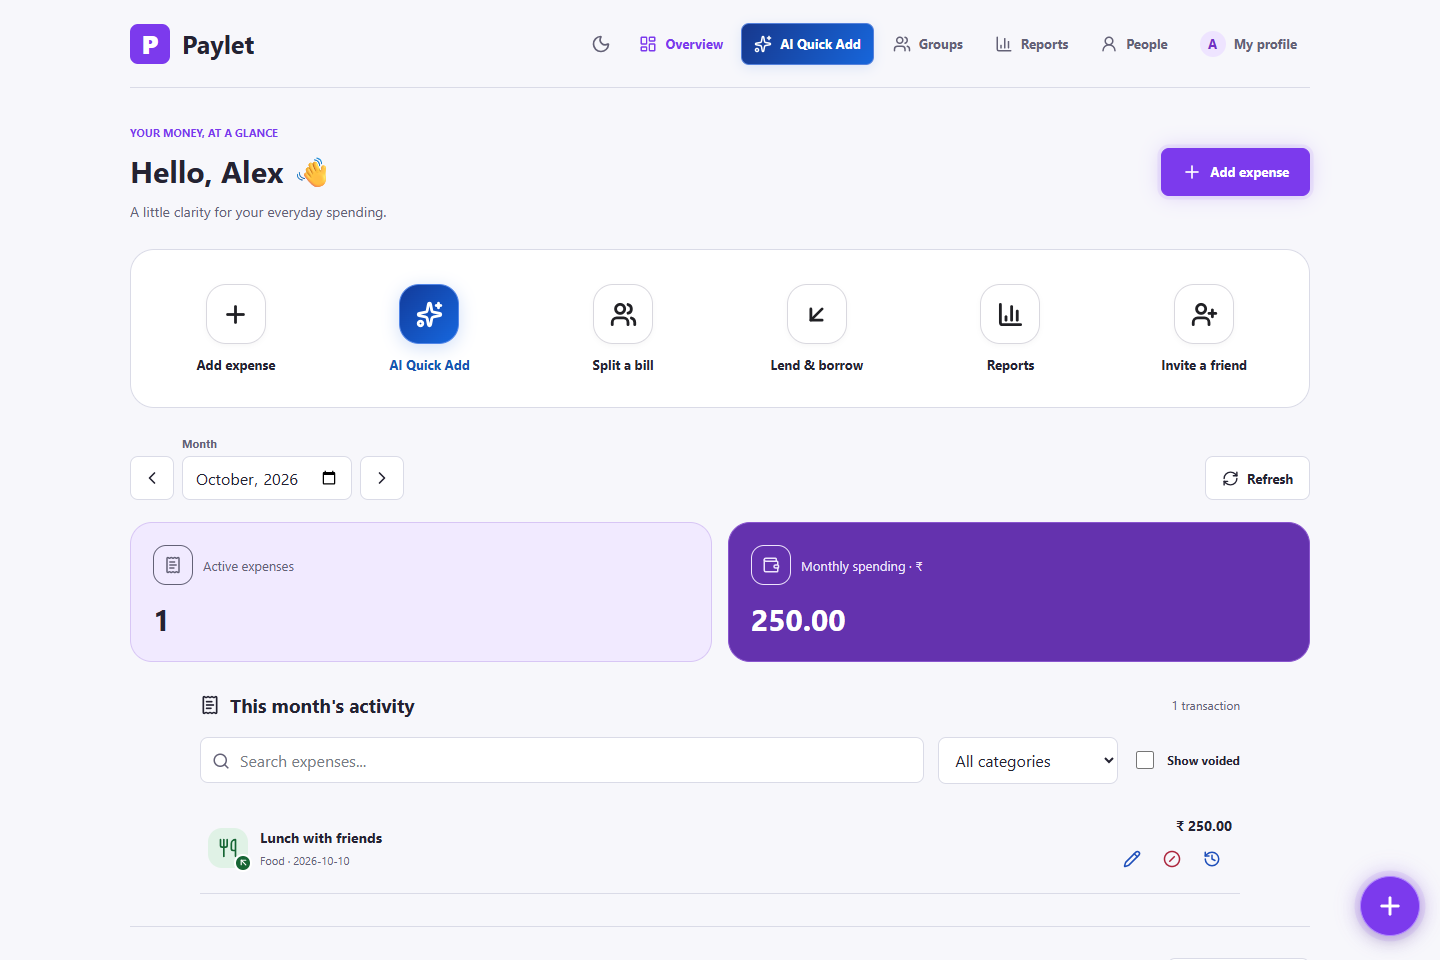
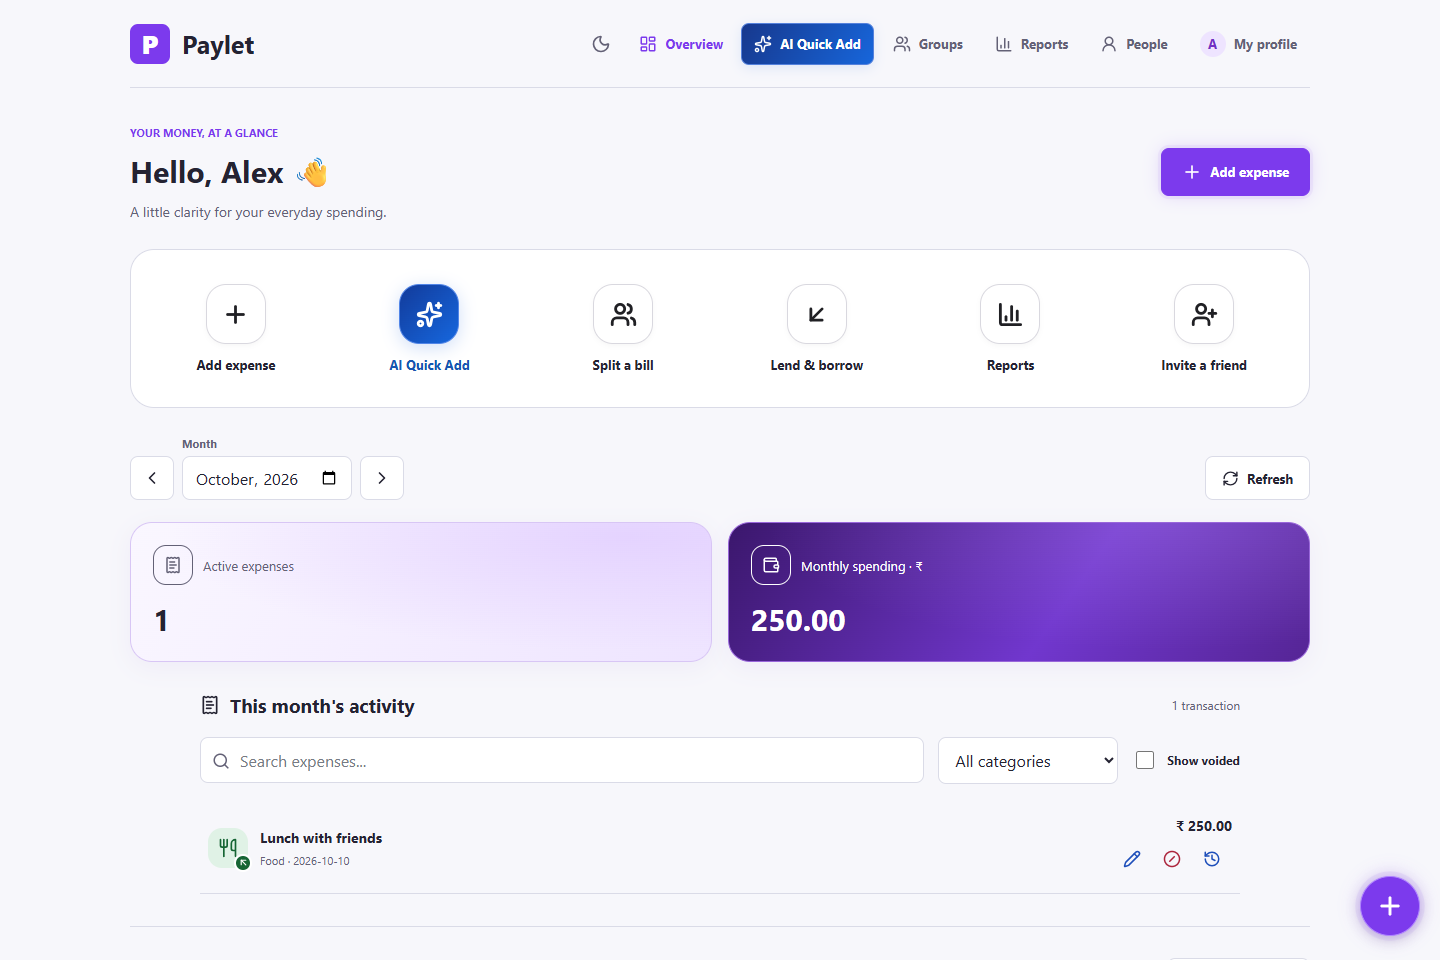
Add dashboard gradients and brighter lending cards

Changed region(s): [[0.6875, 0.5312, 0.8438, 0.6875], [0.5, 0.5312, 0.625, 0.6875]]

diff --git a/frontend/src/components/dashboard-refresh.css b/frontend/src/components/dashboard-refresh.css
@@ -27,11 +27,11 @@
 .home-page .expense-row-actions .button:hover:not(:disabled) { background: var(--surface); border-color: var(--border); }
 .home-page .expense-row.is-void { background: var(--surface-alt); }
 .home-page .expense-row.is-void .transaction-icon.expense-direction { color: var(--muted); background: var(--surface); }
-.home-page .loan-summary-card.lent-summary { background: #1955ac; border-color: #3773c8; }
-.home-page .loan-summary-card.borrowed-summary { background: #a52e68; border-color: #c54c85; }
+.home-page .loan-summary-card.lent-summary { background: #185de7; border-color: #4b83ff; }
+.home-page .loan-summary-card.borrowed-summary { background: #ce1767; border-color: #f05296; }
 .home-page .loan-summary-card:is(.lent-summary, .borrowed-summary) :is(.loan-summary-label, .loan-summary-value, dt, dd, .profile-member), .home-page .loan-summary-card .outstanding-line :is(dt, dd) { color: #fff; }
-[data-theme="dark"] .home-page .loan-summary-card.lent-summary { background: #124486; border-color: #3773c8; }
-[data-theme="dark"] .home-page .loan-summary-card.borrowed-summary { background: #862452; border-color: #b2487b; }
+[data-theme="dark"] .home-page .loan-summary-card.lent-summary { background: #185de7; border-color: #4b83ff; }
+[data-theme="dark"] .home-page .loan-summary-card.borrowed-summary { background: #ce1767; border-color: #f05296; }
 [data-theme="dark"] .home-page .loan-summary-card:is(.lent-summary, .borrowed-summary) :is(.loan-summary-label, .loan-summary-value, dt, dd, .profile-member), [data-theme="dark"] .home-page .loan-summary-card .outstanding-line :is(dt, dd) { color: #fff; }
 @media (hover: hover) { .home-page .quick-actions > .dashboard-ai-shortcut:hover:not(:disabled) .action-symbol { box-shadow: 0 0 22px #287af55c; } }
 @media (max-width: 600px) {
@@ -59,10 +59,12 @@ body:has(dialog[open]) .dashboard-fab { display: none; }
 .home-page .quick-actions .action-symbol { position: relative; display: grid; place-items: center; width: 60px; height: 60px; border-radius: 20px; border-width: 1.5px; }
 .home-page .quick-actions .action-symbol svg { width: 27px; height: 27px; stroke-linecap: round; stroke-linejoin: round; }
 .home-page .quick-actions > button:focus-visible { outline: 2px solid var(--purple); outline-offset: 3px; }
-.home-page .summary-grid .summary-card { border-radius: 22px; border-left-width: 1px; padding: 22px; box-shadow: none; }
-.home-page .summary-grid .summary-card:first-child { background-image: none; background-color: #f1eaff; border-color: #d8c6f5; }
-[data-theme="dark"] .home-page .summary-grid .summary-card:first-child { background-image: none; background-color: #0a0a0a; border-color: #473260; }
-.home-page .summary-grid .summary-card:not(:first-child) { background-image: none; background-color: #6432ae; border-color: #8954ce; }
+.home-page .summary-grid .summary-card { border-radius: 22px; border-left-width: 1px; padding: 22px; box-shadow: 0 6px 24px #7139c510; }
+.home-page .summary-grid .summary-card:first-child { background: radial-gradient(ellipse at 85% 10%, #d5b8ff70, transparent 65%), linear-gradient(120deg, #faf7ff, #eee4ff); border-color: #d8c6f5; }
+[data-theme="dark"] .home-page .summary-grid .summary-card:first-child { background-color: #0a0a0a; background-image: radial-gradient(ellipse at 90% 0%, #8050d040, transparent 70%), linear-gradient(120deg, #151021, #211238); border-color: #64448b; }
+.home-page .summary-grid .summary-card:not(:first-child) { background: radial-gradient(ellipse at 75% 0%, #d5b8ff30, transparent 65%), linear-gradient(125deg, #3b176c, #7137ce 58%, #552595); border-color: #9966da; }
+[data-theme="dark"] .home-page .summary-grid .summary-card { box-shadow: 0 5px 28px #7c3aed18; }
+.home-page .summary-grid .summary-card:not(:first-child) p { color: #fff; }
 .home-page .summary-card p { display: flex; align-items: center; gap: 10px; }
 .home-page .summary-card p > svg { box-sizing: content-box; padding: 10px; border: 1px solid currentColor; border-radius: 13px; flex-shrink: 0; }
 .home-page .expense-row .transaction-icon.expense-direction { position: relative; overflow: visible; border-radius: 14px; flex-shrink: 0; }
